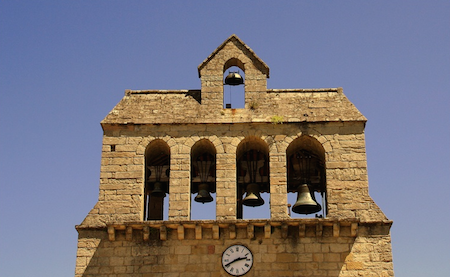
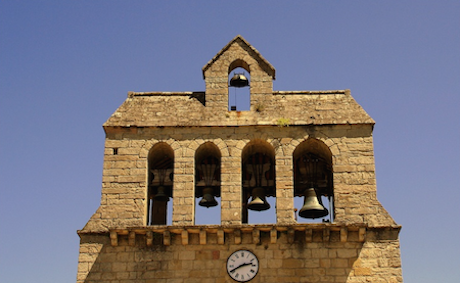
fixing size image

diff --git a/items/the_place.html b/items/the_place.html
@@ -136,7 +136,7 @@
                     </ul>
                 </div>
 
-                <div id="carousel-example-generic" class="carousel slide" data-ride="carousel" style="width: 450px; height: 277px; margin-bottom: 30px">
+                <div id="carousel-example-generic" class="carousel slide" data-ride="carousel" style="margin-bottom: 30px">
                     <!-- Indicators -->
                     <ol class="carousel-indicators">
                         <li data-target="#carousel-example-generic" data-slide-to="0" class="active"></li>
@@ -149,19 +149,19 @@
                     <!-- Wrapper for slides -->
                     <div class="carousel-inner">
                         <div class="item active">
-                            <img src="../images/the_place/1.png" width="450" height="277">
+                            <img src="../images/the_place/1.png">
                         </div>
                         <div class="item">
-                            <img src="../images/the_place/2.png" width="450" height="277">
+                            <img src="../images/the_place/2.png">
                         </div>
                         <div class="item">
-                            <img src="../images/the_place/3.png" width="450" height="277">
+                            <img src="../images/the_place/3.png">
                         </div>
                         <div class="item">
-                            <img src="../images/the_place/4.png" width="450" height="277">
+                            <img src="../images/the_place/4.png">
                         </div>
                         <div class="item">
-                            <img src="../images/the_place/5.png" width="450" height="277">
+                            <img src="../images/the_place/5.png">
                         </div>
                     </div>
 

diff --git a/items/d_day.html b/items/d_day.html
@@ -138,7 +138,7 @@
                     </ul>
                 </div>
 
-                <div id="carousel-example-generic" class="carousel slide" data-ride="carousel" style="width: 450px;">
+                <div id="carousel-example-generic" class="carousel slide" data-ride="carousel">
                     <!-- Indicators -->
                     <ol class="carousel-indicators">
                         <li data-target="#carousel-example-generic" data-slide-to="0" class="active"></li>
